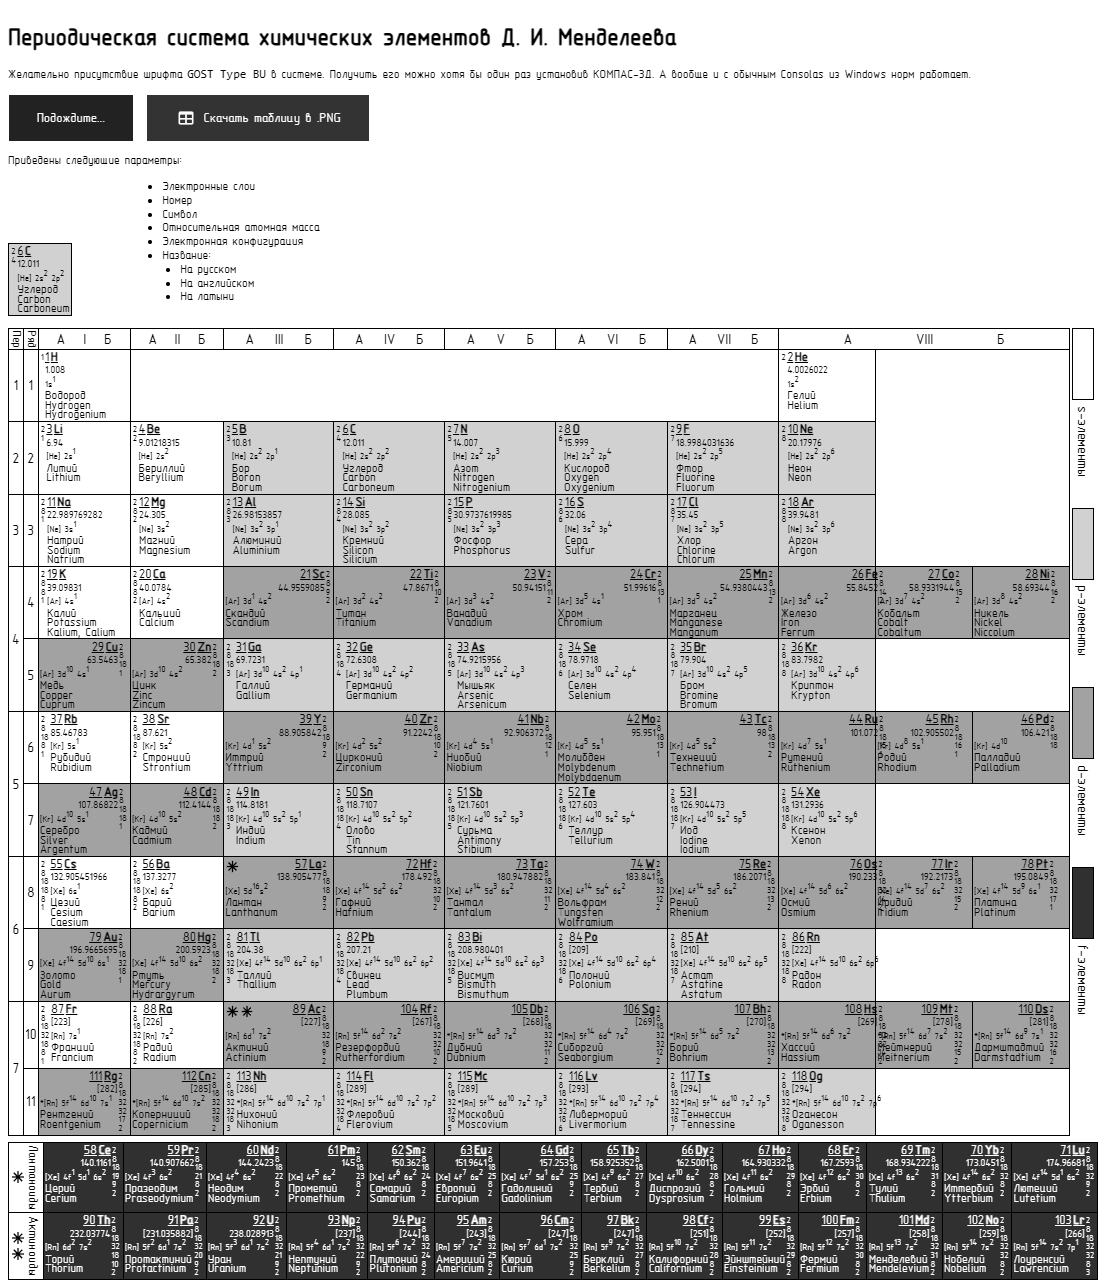
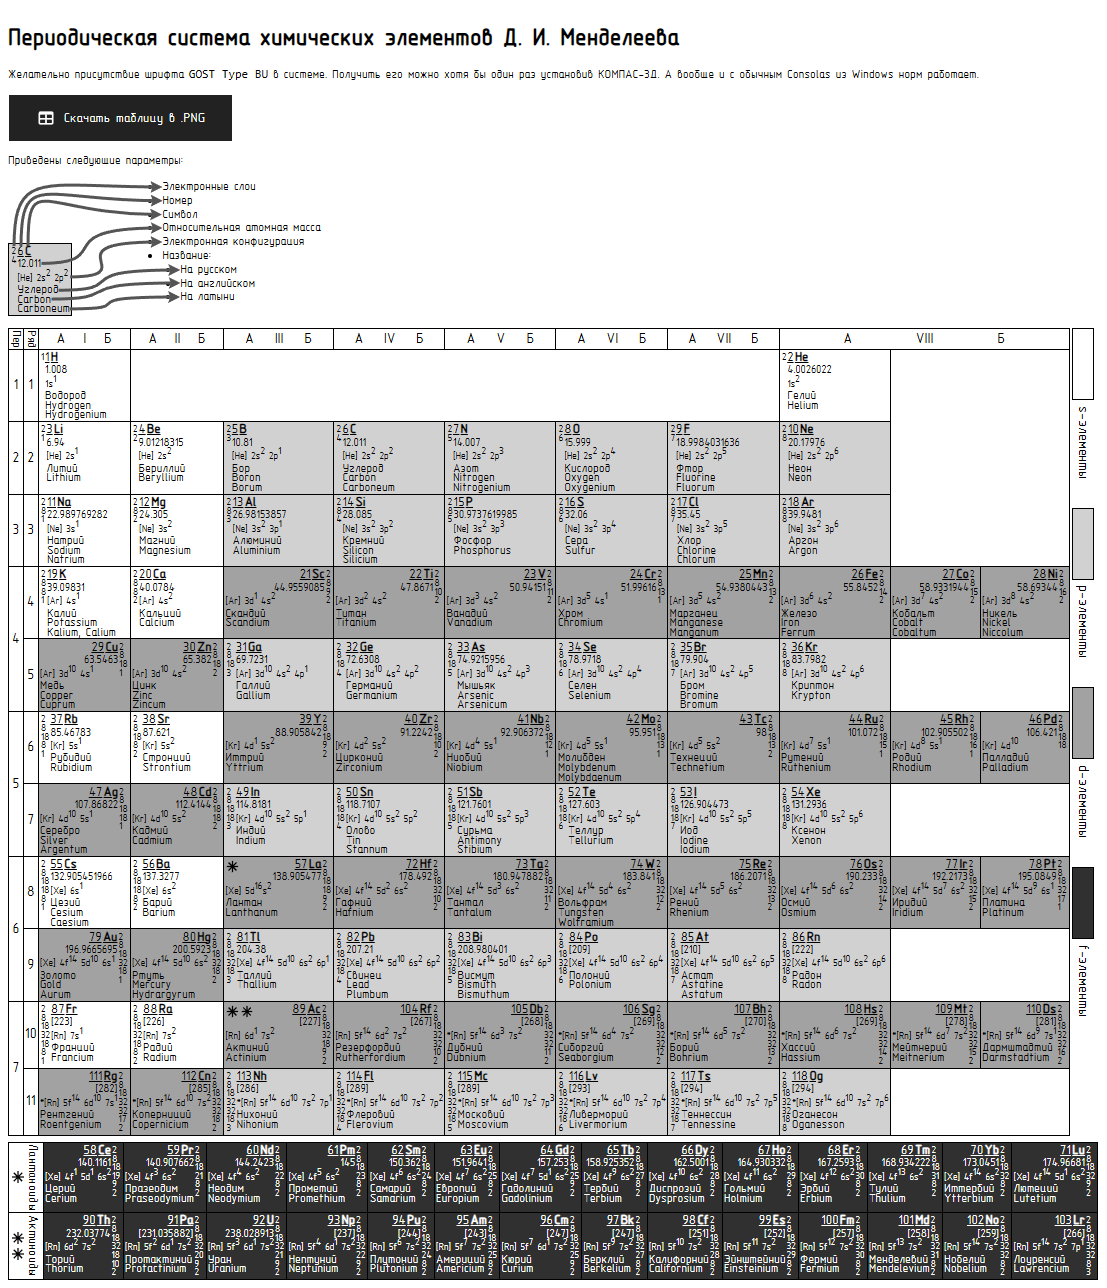
fix

Changed region(s): [[0.0, 0.0, 1.0, 0.9938], [0.953, 0.2795, 1.0, 0.3727], [0.83, 0.2484, 0.8608, 0.2795]]

diff --git a/src/main.ts b/src/main.ts
@@ -157,6 +157,9 @@ window.addEventListener("DOMContentLoaded", () => {
     { a: "#testTable #preview_name_lat_a", b: "#preview_name_lat_b" },
   ];
 
+  const testTable = document.querySelector("#testTable");
+  assert(testTable);
+
   const lines = linesData.map(
     (lineData) =>
       new window.LeaderLine(
@@ -165,6 +168,7 @@ window.addEventListener("DOMContentLoaded", () => {
         {
           color: "#555",
           size: 3,
+          element: testTable,
         },
       ),
   );
@@ -179,38 +183,15 @@ window.addEventListener("DOMContentLoaded", () => {
   const tablesContainer: HTMLElement | null =
     document.querySelector(".tablesContainer");
   assert(tablesContainer);
-  const download_all_btn: HTMLButtonElement | null =
-    document.querySelector("#download_all_btn");
-  assert(download_all_btn);
   const download_tables_btn: HTMLButtonElement | null = document.querySelector(
     "#download_tables_btn",
   );
   assert(download_tables_btn);
 
-  download_all_btn.addEventListener("click", () => {
-    let text = download_all_btn.innerText;
-
-    download_all_btn.innerText = "Подождите...";
-
-    setTimeout(() => {
-      htmlToImage
-        .toPng(app)
-        .then((dataUrl) => {
-          downloadjs(dataUrl, "SeryiBaran__rus-periodic-table-js_f");
-        })
-        .catch((err) => {
-          console.error("oops, something went wrong!", err);
-        })
-        .finally(() => {
-          download_all_btn.innerText = text;
-        });
-    }, 200);
-  });
-
   download_tables_btn.addEventListener("click", () => {
-    let text = download_tables_btn.innerText;
+    let html = download_tables_btn.innerHTML;
 
-    download_tables_btn.innerText = "Подождите...";
+    download_tables_btn.innerHTML = "Подождите...";
 
     setTimeout(() => {
       htmlToImage
@@ -222,7 +203,7 @@ window.addEventListener("DOMContentLoaded", () => {
           console.error("oops, something went wrong!", err);
         })
         .finally(() => {
-          download_tables_btn.innerText = text;
+          download_tables_btn.innerHTML = html;
         });
     }, 200);
   });

diff --git a/index.html b/index.html
@@ -12,8 +12,8 @@
         <h1>Периодическая система химических элементов Д. И. Менделеева</h1>
         <p>Желательно присутствие шрифта <code>GOST Type BU</code> в системе. Получить его можно хотя бы один раз установив КОМПАС-3Д. А вообще и с обычным Consolas из Windows норм работает.</p>
         <p class="buttons">
-          <button id="download_all_btn"><span class="btnIcon"><svg xmlns="http://www.w3.org/2000/svg" width="32" height="32" viewBox="0 0 24 24"><!-- Icon from Material Design Icons by Pictogrammers - https://github.com/Templarian/MaterialDesign/blob/master/LICENSE --><path fill="currentColor" d="M13 9V3.5L18.5 9M6 2c-1.11 0-2 .89-2 2v16a2 2 0 0 0 2 2h12a2 2 0 0 0 2-2V8l-6-6z"/></svg></span> Скачать всю страницу в .PNG</button>
-          <button id="download_tables_btn"><span class="btnIcon"><svg xmlns="http://www.w3.org/2000/svg" width="32" height="32" viewBox="0 0 24 24"><!-- Icon from Material Design Icons by Pictogrammers - https://github.com/Templarian/MaterialDesign/blob/master/LICENSE --><path fill="currentColor" d="M5 4h14a2 2 0 0 1 2 2v12a2 2 0 0 1-2 2H5a2 2 0 0 1-2-2V6a2 2 0 0 1 2-2m0 4v4h6V8zm8 0v4h6V8zm-8 6v4h6v-4zm8 0v4h6v-4z"/></svg></span>Скачать таблицу в .PNG</button></p>
+          <button id="download_tables_btn"><span class="btnIcon"><svg xmlns="http://www.w3.org/2000/svg" width="32" height="32" viewBox="0 0 24 24"><!-- Icon from Material Design Icons by Pictogrammers - https://github.com/Templarian/MaterialDesign/blob/master/LICENSE --><path fill="currentColor" d="M5 4h14a2 2 0 0 1 2 2v12a2 2 0 0 1-2 2H5a2 2 0 0 1-2-2V6a2 2 0 0 1 2-2m0 4v4h6V8zm8 0v4h6V8zm-8 6v4h6v-4zm8 0v4h6v-4z"/></svg></span>Скачать таблицу в .PNG</button>
+        </p>
         <p>Приведены следующие параметры:</p>
         <div id="preview">
           <table id="testTable">
